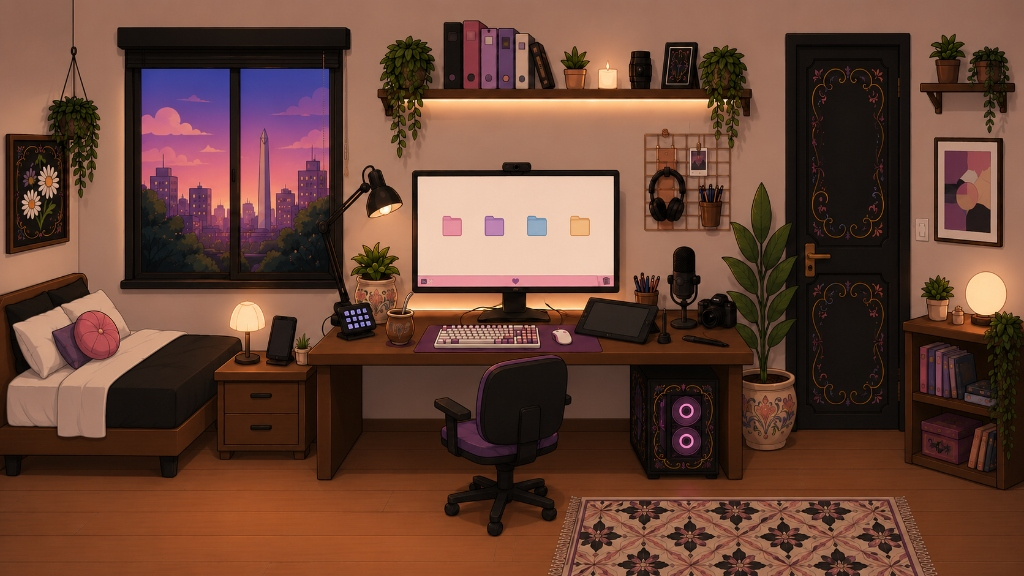
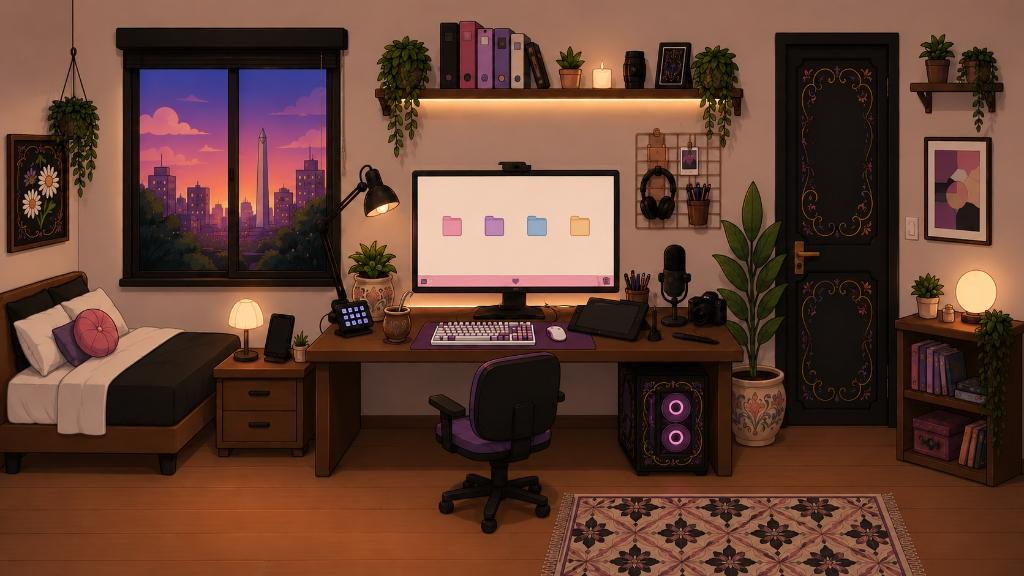
fix: composicion perfecta pixel por pixel de pantallas y aislamiento estricto de tecla E/clics

diff --git a/src/components/game/PixelRoom.tsx b/src/components/game/PixelRoom.tsx
@@ -1,13 +1,24 @@
 "use client";
 
-import Image from "next/image";
 import { useGameStore } from "@/hooks/useGameStore";
 
 /**
- * PixelRoom — Renderiza la habitación con superposición perfecta sin parpadeo.
+ * PixelRoom — Renderiza la habitación con superposición absoluta directa de <img>.
+ * Evita cualquier rescalado de envoltorios de Next.js para un cambio de capas 100% imperceptible.
  */
 export default function PixelRoom() {
   const { isPcOn, isPhoneOn } = useGameStore();
+
+  const commonStyle: React.CSSProperties = {
+    position: "absolute",
+    top: 0,
+    left: 0,
+    width: "100%",
+    height: "100%",
+    objectFit: "cover",
+    objectPosition: "center bottom",
+    pointerEvents: "none",
+  };
 
   return (
     <div
@@ -20,110 +31,51 @@ export default function PixelRoom() {
         backgroundColor: "#1E1A29",
       }}
     >
-      {/* 1. BASE CAPA ESTÁTICA: Habitación apagada (Siempre visible 100% sin desvanecer) */}
-      <div
-        style={{
-          position: "absolute",
-          inset: 0,
-          zIndex: 1,
-          pointerEvents: "none",
-        }}
-      >
-        <Image
-          src="/room_off_off.jpg"
-          alt="Room Base Off"
-          fill
-          sizes="100vw"
-          quality={90}
-          style={{
-            objectFit: "cover",
-            objectPosition: "center bottom",
-            imageRendering: "auto",
-          }}
-          priority
-        />
-      </div>
+      {/* 1. BASE ESTÁTICA: Habitación Apagada (Siempre 100% opaca) */}
+      <img
+        src="/room_off_off.jpg"
+        alt="Habitación Apagada"
+        style={{ ...commonStyle, zIndex: 1 }}
+      />
 
-      {/* 2. CAPA SOLO PC PRENDIDA */}
-      <div
+      {/* 2. SOLO PC PRENDIDA */}
+      <img
+        src="/room_pc_off.jpg"
+        alt="PC Prendida"
         style={{
-          position: "absolute",
-          inset: 0,
+          ...commonStyle,
           zIndex: 2,
           opacity: isPcOn && !isPhoneOn ? 1 : 0,
-          transition: "opacity 0.4s cubic-bezier(0.25, 1, 0.5, 1)",
-          pointerEvents: "none",
+          transition: "opacity 0.25s ease-in-out",
           willChange: "opacity",
         }}
-      >
-        <Image
-          src="/room_pc_off.jpg"
-          alt="Room PC ON"
-          fill
-          sizes="100vw"
-          quality={90}
-          style={{
-            objectFit: "cover",
-            objectPosition: "center bottom",
-            imageRendering: "auto",
-          }}
-          priority
-        />
-      </div>
+      />
 
-      {/* 3. CAPA SOLO CELULAR PRENDIDO */}
-      <div
+      {/* 3. SOLO CELULAR PRENDIDO */}
+      <img
+        src="/room_off_phone.jpg"
+        alt="Celular Prendido"
         style={{
-          position: "absolute",
-          inset: 0,
+          ...commonStyle,
           zIndex: 3,
           opacity: !isPcOn && isPhoneOn ? 1 : 0,
-          transition: "opacity 0.4s cubic-bezier(0.25, 1, 0.5, 1)",
-          pointerEvents: "none",
+          transition: "opacity 0.25s ease-in-out",
           willChange: "opacity",
         }}
-      >
-        <Image
-          src="/room_off_phone.jpg"
-          alt="Room Phone ON"
-          fill
-          sizes="100vw"
-          quality={90}
-          style={{
-            objectFit: "cover",
-            objectPosition: "center bottom",
-            imageRendering: "auto",
-          }}
-          priority
-        />
-      </div>
+      />
 
-      {/* 4. CAPA AMBOS PRENDIDOS */}
-      <div
+      {/* 4. AMBOS PRENDIDOS */}
+      <img
+        src="/room_pc_phone.jpg"
+        alt="Ambos Prendidos"
         style={{
-          position: "absolute",
-          inset: 0,
+          ...commonStyle,
           zIndex: 4,
           opacity: isPcOn && isPhoneOn ? 1 : 0,
-          transition: "opacity 0.4s cubic-bezier(0.25, 1, 0.5, 1)",
-          pointerEvents: "none",
+          transition: "opacity 0.25s ease-in-out",
           willChange: "opacity",
         }}
-      >
-        <Image
-          src="/room_pc_phone.jpg"
-          alt="Room Both ON"
-          fill
-          sizes="100vw"
-          quality={90}
-          style={{
-            objectFit: "cover",
-            objectPosition: "center bottom",
-            imageRendering: "auto",
-          }}
-          priority
-        />
-      </div>
+      />
     </div>
   );
 }

diff --git a/src/components/game/GameContainer.tsx b/src/components/game/GameContainer.tsx
@@ -243,20 +243,18 @@ export default function GameContainer() {
           clickY <= obj.y + obj.h
         ) {
           if (obj.id === "computer") {
-            if (!isPcOnRef.current) {
-              togglePcPower();
-              audioEngine.bootPC();
-            } else {
+            if (isPcOnRef.current) {
               audioEngine.interact();
               openWindow("computer");
+            } else {
+              audioEngine.click();
             }
           } else if (obj.id === "phone") {
-            if (!isPhoneOnRef.current) {
-              togglePhonePower();
-              audioEngine.powerOnPhone();
-            } else {
+            if (isPhoneOnRef.current) {
               audioEngine.interact();
               openWindow("phone");
+            } else {
+              audioEngine.click();
             }
           } else if (obj.id === "door") {
             audioEngine.interact();